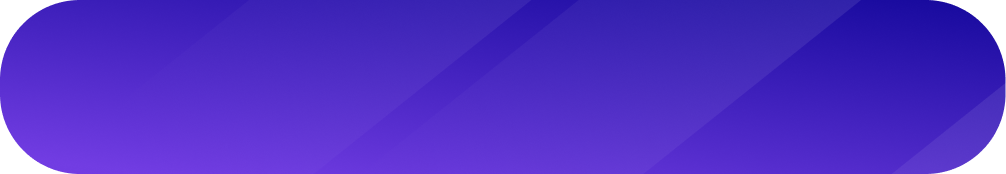
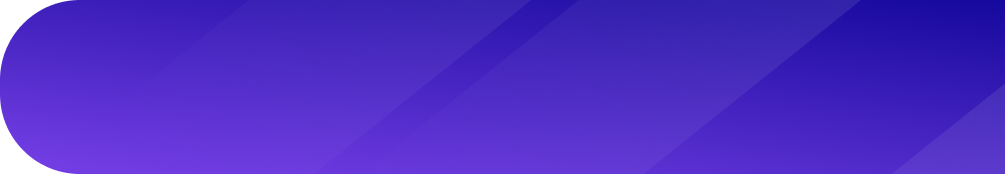
fixed some problems in adaptive

Changed region(s): [[0.9254, 0.6034, 1.0, 1.0], [0.9254, 0.0, 1.0, 0.4023]]

diff --git a/build/assets/styles/main.css b/build/assets/styles/main.css
@@ -99,7 +99,8 @@ a {
   padding: 20px 0;
   width: 100%;
   z-index: 2;
-  background: url("../images/header-bg.png") 235% 100% no-repeat; }
+  background: url("../images/header-bg.png") right center no-repeat;
+  background-size: 68%; }
   @media screen and (max-width: 768px) {
     .header {
       background: url("../images/header-bg.png") -112% 175% no-repeat;
@@ -129,6 +130,11 @@ a {
       .header .header__nav {
         flex-wrap: wrap;
         justify-content: flex-end; } }
+    @media screen and (max-width: 576px) {
+      .header .header__nav {
+        flex-direction: column;
+        justify-content: flex-end;
+        align-items: flex-end; } }
   .header .nav__menu {
     margin-right: 20px;
     display: flex;
@@ -245,6 +251,9 @@ a {
       color: #A5A3A3;
       font-size: 18px;
       z-index: 2; }
+      @media screen and (max-width: 1048px) {
+        .hero .hero__main .form__inp {
+          padding: 20px 25px; } }
       @media screen and (max-width: 768px) {
         .hero .hero__main .form__inp {
           font-size: 14px;

diff --git a/src/styles/layout/_header.scss b/src/styles/layout/_header.scss
@@ -2,7 +2,8 @@
     padding: 20px 0;
     width: 100%;
     z-index: 2;
-    background: url("../images/header-bg.png") 235% 100% no-repeat;
+    background: url("../images/header-bg.png") right center no-repeat;
+    background-size: 68%;
 
     @include tablets() {
         background: url("../images/header-bg.png") -112% 175% no-repeat;
@@ -40,6 +41,12 @@
         @include tablets() {
             flex-wrap: wrap;
             justify-content: flex-end;
+        }
+
+        @include phones() {
+            flex-direction: column;
+            justify-content: flex-end;
+            align-items: flex-end;
         }
     }
 

diff --git a/src/styles/layout/_hero.scss b/src/styles/layout/_hero.scss
@@ -85,6 +85,10 @@
             font-size: 18px;
             z-index: 2;
 
+            @include laptop() {
+                padding: 20px 25px;
+            }
+
             @include tablets() {
                 font-size: 14px;
                 padding: 15px 20px;

diff --git a/build/index.html b/build/index.html
@@ -417,7 +417,6 @@
                 </div>
             </div>
         </footer>
-        <div class="hero-bg"></div>
         <div class="bg"></div>
         <div class="popup popup--callback">
             <h3 class="popup__title">Нужна помощь?</h3>

diff --git a/src/template/index.html b/src/template/index.html
@@ -417,7 +417,6 @@
                 </div>
             </div>
         </footer>
-        <div class="hero-bg"></div>
         <div class="bg"></div>
         <div class="popup popup--callback">
             <h3 class="popup__title">Нужна помощь?</h3>

diff --git a/src/styles/config/_variables.scss b/src/styles/config/_variables.scss
@@ -1,6 +1,6 @@
 // resolutions
 $desktop: 1200px;
-$laptop: 1024px;
+$laptop: 1048px;
 $tablets: 768px;
 $phones: 576px;
 $landscape-width: 850px;
